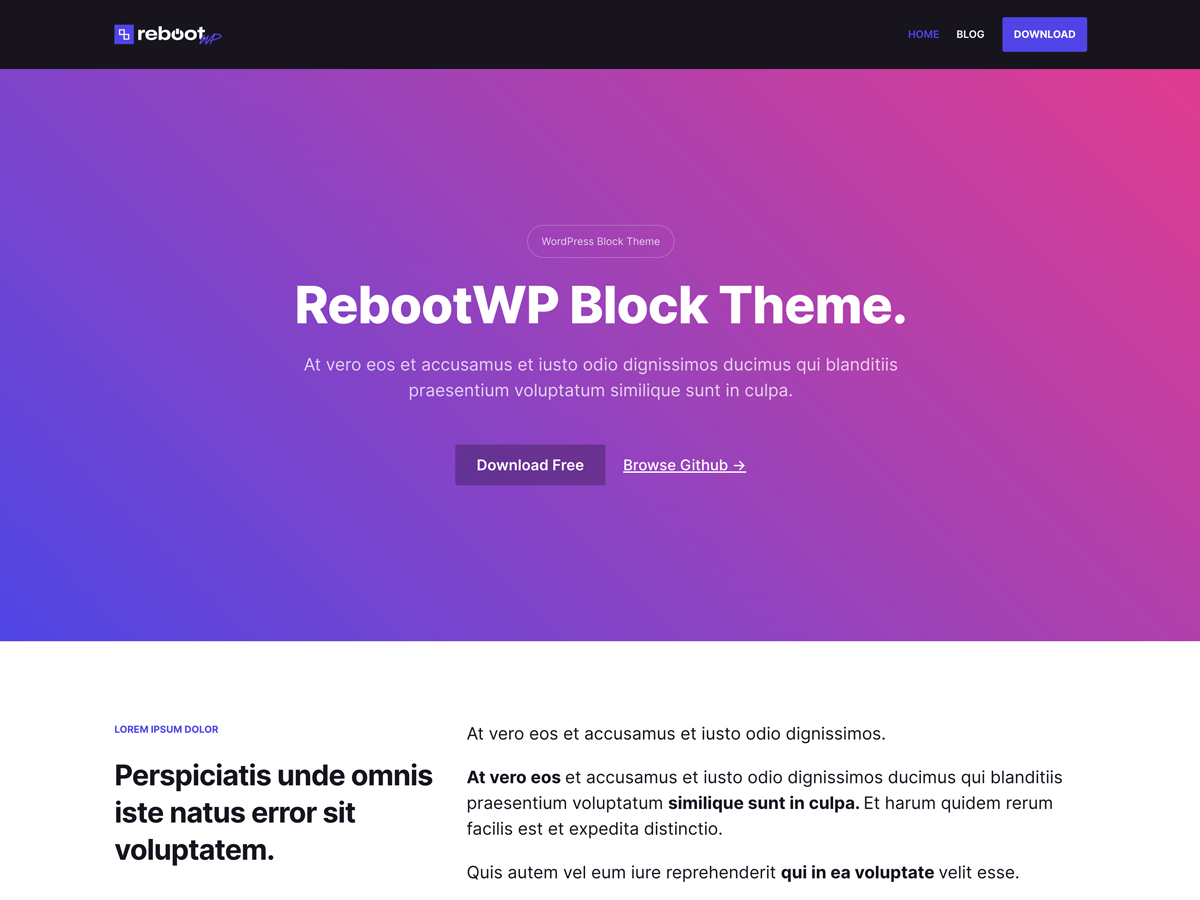
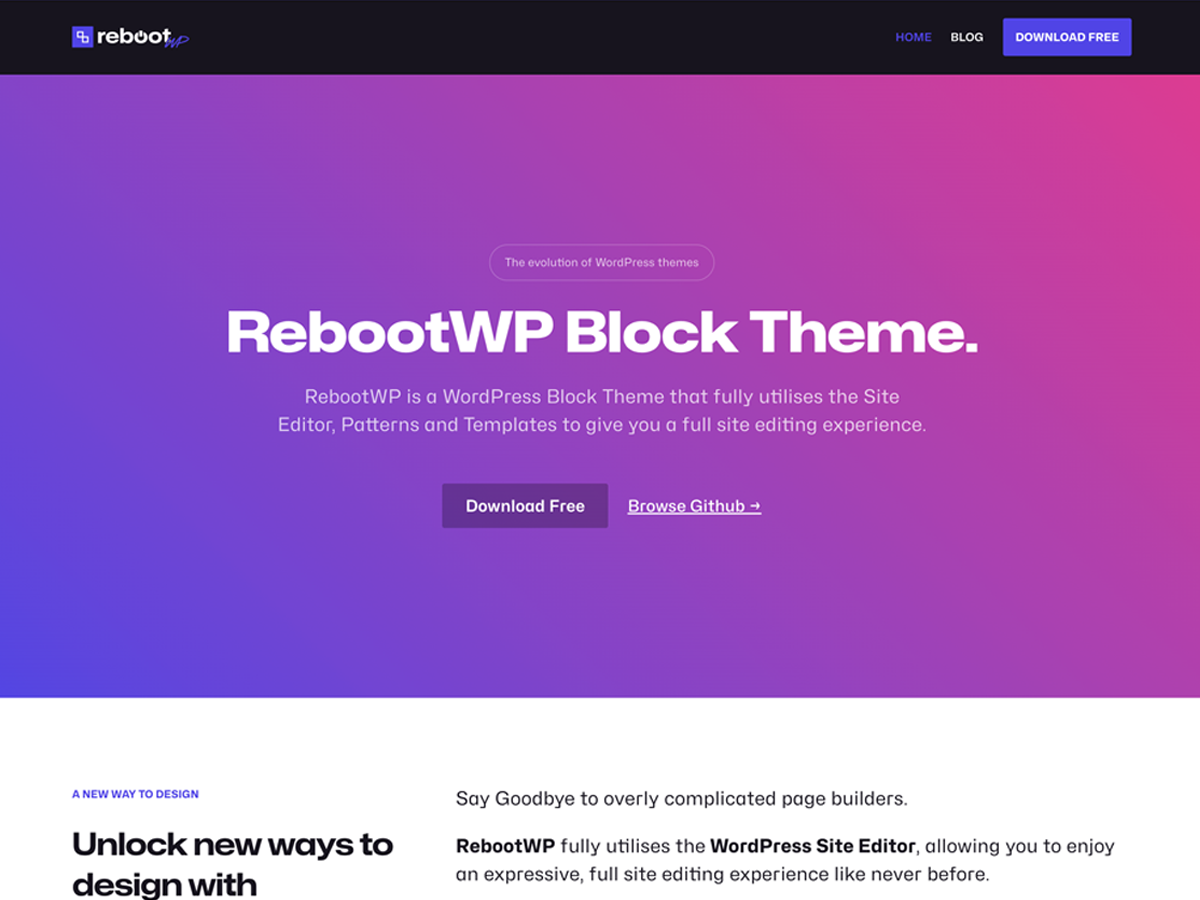
v1.2.3

diff --git a/style.css b/style.css
@@ -7,7 +7,7 @@ Description: Design without ever leaving your browser with the power of RebootWP
 Tags: blog, portfolio, grid-layout, block-patterns, block-styles, custom-logo, custom-menu, editor-style, featured-images, full-site-editing, full-width-template, threaded-comments, translation-ready, wide-blocks
 Tested up to: 6.5
 Requires PHP: 7.3
-Version: 1.2.2
+Version: 1.2.3
 License: GNU General Public License v3 or later
 License URI: https://www.gnu.org/licenses/gpl-2.0.html
 Text Domain: rebootwp

diff --git a/README.md b/README.md
@@ -6,7 +6,7 @@
 
 **Tested up to:** 6.5  
 **Requires PHP:** 7.3  
-**Version:** 1.2.2  
+**Version:** 1.2.3  
 **License:** GNU General Public License v3 or later  
 **License URI:** https://www.gnu.org/licenses/gpl-2.0.html
 
@@ -21,6 +21,17 @@ RebootWP ships with thoughtfully designed Patterns, Templates & Styles that allo
 ---
 
 ### Changelog
+
+**1.2.3 - 30/05/24**
+- Add new header patterns with page title
+- Fix colour conflict
+- Create new style omni
+- Create new style twilight
+- Updates styles
+- Add body background style option
+- Add new simple block pattern galleries
+- Add new pattern categories
+- Update placeholder image path
 
 **1.2.2 - 30/05/24**
 - Improve link targeting
